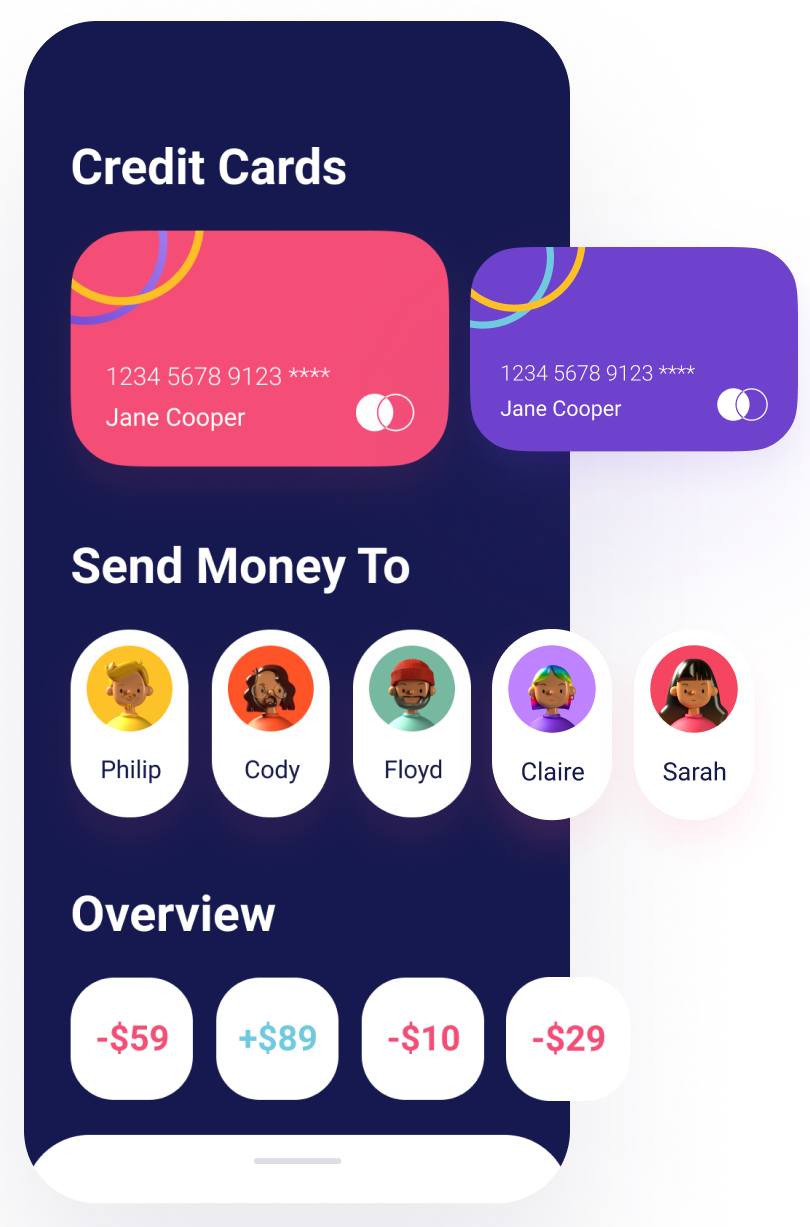
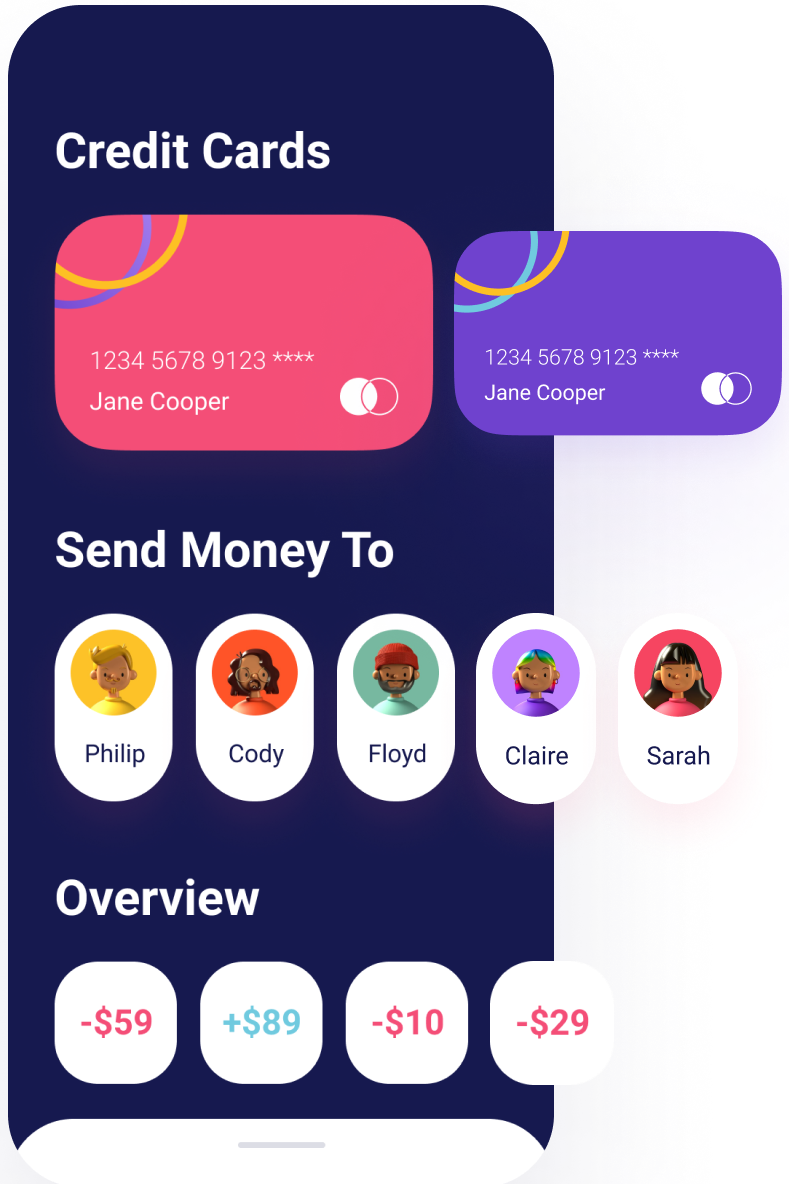
Update

diff --git a/index.html b/index.html
@@ -10,7 +10,9 @@
     <title>Smart Banking</title>
 </head>
 <body>
+    <div class="central-align">
     <section class="first-sec section-style">
+    <div class="sec-1-wrapper ">
     <nav class="nav">
     <div class="content-container row row-centered nav-bar-wrapper">
         <div>
@@ -40,8 +42,9 @@
         </div>
         <div class="right-col"><img class="phone-img" src="Phone 2.png" alt=""></div>
     </div>
+    </div>
     </section>
-    <section class="section-style">
+    <section class="section-style content-container">
         <div class="left-col">
             <h2 class="big-blue-txt">One card for all your payments</h2>
             <p class="small-blue-txt">Get 3% back on everything you buy with the Draft card. Register today and enjoy every aspect of your business. </p>
@@ -50,5 +53,114 @@
             <img class="credit-card" src="Credit Card.png" alt="">
         </div>
     </section>
+    <section class="content-container section-style">
+        <div class="left-col center-box-wrapper">
+           <div class="row row-centered">
+            <div class="small-box">
+                <p class="card-txt">Balance</p>
+                <p class="big-blue-txt">$5,600</p>
+            </div>
+            <div class="small-box">
+                <p class="card-txt">Last Transaction</p>
+                <p class="big-blue-txt">$230</p>
+            </div>
+           </div>
+            <div class="chart-box">
+                <img class="bars-graph" src="BArs.png" alt="">
+            </div>
+        </div>
+        <div class="center-box-wrapper text-to-left">
+            <h2 class="big-blue-txt">Manage your finances like a pro in no time</h2>
+            <p class="small-blue-txt">With Draft, book keeping, banking, and invoices are all in one place. You will always know where you stand. </p>
+            <button class="second-blue-button">Learn More <i class="gg-arrow-right"></i></button>
+        </div>
+    </section>
+    <section class="content-container section-style">
+        <div class="left-col">
+            <p class="big-blue-txt">We support you in 5 different languages</p>
+            <p class="small-blue-txt">Our support team in here to help you in 5 languages - English, French, Spanish,Polish and German.</p>
+            <div class="row row-centered">
+                <img class="profile-pics"src="Profile Images.png" alt="">
+                <p class="small-blue-txt">+20</p>
+            </div>
+        </div>
+        <div class="right-col chat-col">
+            <div class="row row-centered">
+                <img class="chat-pic" src="Ellipse 20.png" alt="">
+                <div>
+                    <div class="chat-box-white">
+                        <p class="small-blue-txt">Hi Mike, How can I help you?</p>
+                    </div>
+                    <p class="small-blue-txt chat-timestamp-size">Clair, 12:22 pm</p>
+                </div>
+            </div>
+            <div class="row row-centered">
+                <div class="response-txt">
+                    <div class="chat-box-blue">
+                        <p class="chat-box-txt">My credit card is stolen...</p>
+                    </div>
+                    <p class="small-blue-txt chat-timestamp-size">Mike, 12:24 pm</p>
+                </div>
+                <img class="chat-pic" src="Ellipse 21.png" alt="">
+            </div>
+            <div class="row row-centered">
+                <img class="chat-pic" src="Ellipse 20.png" alt="">
+                <div>
+                    <div class="chat-box-white">
+                        <p class="small-blue-txt">Ok. No problem. We will take care of this.</p>
+                    </div>
+                    <p class="small-blue-txt chat-timestamp-size">Clair, 12:25 pm</p>
+                </div>
+            </div>
+        </div>
+    </section>
+    <section>
+        <div>
+            <div>
+                <p>An exceptional service,</p>
+                <p> at the right price.</p>
+            </div>
+            <p>Start with our free plan and switch to premium as you grow</p>
+        </div>
+        <div>
+            <div>
+                <h3></h3>
+                <h2></h2>
+                <p></p>
+                <button></button>
+                <img src="Credit Card.png" alt="">
+                <ul>
+                    <li></li>
+                    <li></li>
+                    <li></li>
+                    <li></li>
+                    <li></li>
+                </ul>
+                <ul>
+                    <li></li>
+                    <li></li>
+                    <li></li>
+                </ul>
+            </div>
+            <div>
+                <h3></h3>
+                <h2></h2>
+                <p></p>
+                <button></button>
+                <img src="Credit Card.png" alt="">
+                <ul>
+                    <li></li>
+                    <li></li>
+                    <li></li>
+                    <li></li>
+                    <li></li>
+                    <li></li>
+                    <li></li>
+                    <li></li>
+                </ul>
+            </div>
+        </div>
+    </section>    
+</div>
 </body>
 </html>

diff --git a/style.css b/style.css
@@ -9,18 +9,28 @@ body{
     height: 100vw;
     width: 100vw;
 }
+.central-align{
+    display: flex;
+    flex-direction: column;
+    align-items: center;
+}
+.content-container {
+	max-width: 1440px;
+	justify-content: center;
+	padding: 0 20px;
+}
 .section-style{
     padding :8rem 0;
     display: flex;
-    
+    background-color: #F2F6FF;
 }
 
 .nav {
 	display: flex;
 	align-items: center;
 	justify-content: center;
-	padding: 0 20px 4.5rem 20px;
-    width: 80%;
+	padding: 2rem 20px 2rem 20px;
+    width: 90%;
 }
 .nav-bar-txt{
 font-style: normal;
@@ -42,16 +52,16 @@ padding: 0 1.5rem;
     background-size: cover;
 	background-repeat: no-repeat;
     overflow: visible;
-    height: auto;
     display: flex;
     flex-direction: column;
     justify-content: center;
     align-items: center;
+    max-width: 1440px;
 }
-.content-container {
-	max-width: 1200px;
-	justify-content: center;
-	padding: 0 20px;
+.sec-1-wrapper{
+    display: flex;
+    flex-direction: column;
+    align-items: center;
 }
 .nav-bar-wrapper{
     justify-content: space-between;
@@ -84,7 +94,6 @@ padding: 0 1.5rem;
 	flex-direction: column;
 	justify-content: center;
 	align-items: flex-start;
-    margin-left: 4rem;
     padding:0 5rem 0 8rem ;
 }
 .title-txt{
@@ -109,8 +118,7 @@ padding: 1rem 2rem;
     display: flex;
     justify-content: center;
     align-items: center;
-    padding-right: 5rem;
-}
+    }
 .phone-img{
     width: auto;
     height: 45rem;
@@ -139,7 +147,7 @@ padding: 1rem 2rem;
     display: block;
     transform: scale(var(--ggs,1));
     width: 22px;
-    height: 22px
+    height: 22px;
    }
    
    .gg-arrow-right::after,
@@ -148,7 +156,7 @@ padding: 1rem 2rem;
     display: block;
     box-sizing: border-box;
     position: absolute;
-    right: 3px
+    right: 3px;
    }
    
    .gg-arrow-right::after {
@@ -157,14 +165,14 @@ padding: 1rem 2rem;
     border-top: 2px solid;
     border-right: 2px solid;
     transform: rotate(45deg);
-    bottom: 7px
+    bottom: 7px;
    }
    
    .gg-arrow-right::before {
     width: 16px;
     height: 2px;
     bottom: 10px;
-    background: currentColor
+    background: currentColor;
    } 
 
 .big-blue-txt{
@@ -189,5 +197,118 @@ padding: 1rem 2rem;
 .credit-card{
     width: auto;
     height: 268px;
-    padding-right: 7rem;
+}
+.card-txt{
+    font-family: 'Roboto';
+font-style: normal;
+font-weight: 400;
+font-size: 20px;
+line-height: 30px;
+color: #000;
+padding: 0rem 2rem;
+}
+.bars-graph{
+    width: 350px;
+    height: auto;
+    padding: 1rem;
+}
+.small-box{
+width: 223px;
+height: 180px;
+background: #FFFFFF;
+border: 0.5px solid #CAD6F1;
+box-shadow: 0px 25px 50px rgba(22, 25, 79, 0.05);
+border-radius: 50px;
+display: flex;
+flex-direction: column;
+justify-content: center;
+margin: 1.5rem;
+}
+
+.chart-box{
+    width: 463px;
+height: 248px;
+    background: #FFFFFF;
+border: 0.5px solid #CAD6F1;
+box-shadow: 0px 25px 50px rgba(22, 25, 79, 0.05);
+border-radius: 50px;
+display: flex;
+flex-direction: column;
+justify-content: center;
+align-items: center;
+margin: 1.5rem;
+}
+.center-box-wrapper{
+    display: flex;
+    flex-direction: column;
+    justify-content: center;
+    align-items: center;
+}
+.text-to-left{
+    align-items: baseline;
+}
+.second-blue-button{
+    background: #16194F;
+    border-radius: 20px;
+	width: 200px;
+    height: 54px;
+	font-weight: 600;
+	font-size: 1rem;
+	line-height: 24px;
+	color: #FFFFFF;
+	border: none;
+	cursor: pointer;
+	padding: 0rem 1.5rem;
+    margin-left: 2rem;
+	white-space: pre;
+    display: flex;
+    align-items: center;
+    justify-content: center;
+}
+.profile-pics{
+    height: 60px;
+    width: auto;
+    padding-left: 2rem;
+}
+.chat-pic{
+    height: 55px;
+    width: auto;
+   margin: 0 1.2rem 2rem 1.2rem;
+}
+.chat-box-txt{
+    font-family: 'Roboto';
+    font-style: normal;
+    font-weight: 400;
+    font-size: 20px;
+    line-height: 30px;
+    color: #FFFFFF;
+    padding: 1rem 2rem;
+}
+.chat-timestamp-size{
+    font-size: 15px;
+    line-height: 22px;
+}
+.chat-box-white{
+    width: 366px;
+height: 70px;
+left: 827px;
+background: #FFFFFF;
+border-radius: 30px 30px 30px 0px;
+align-items: center;
+}
+.chat-box-blue{
+    width: 366px;
+height: 70px;
+left: 827px;
+background: #6A6D9E;
+border-radius: 30px 30px 0px 30px;
+align-items: center;
+}
+.chat-col{
+    flex-direction: column;
+}
+.response-txt{
+    display: flex;
+    flex-direction: column;
+    align-items: flex-end;
 }
